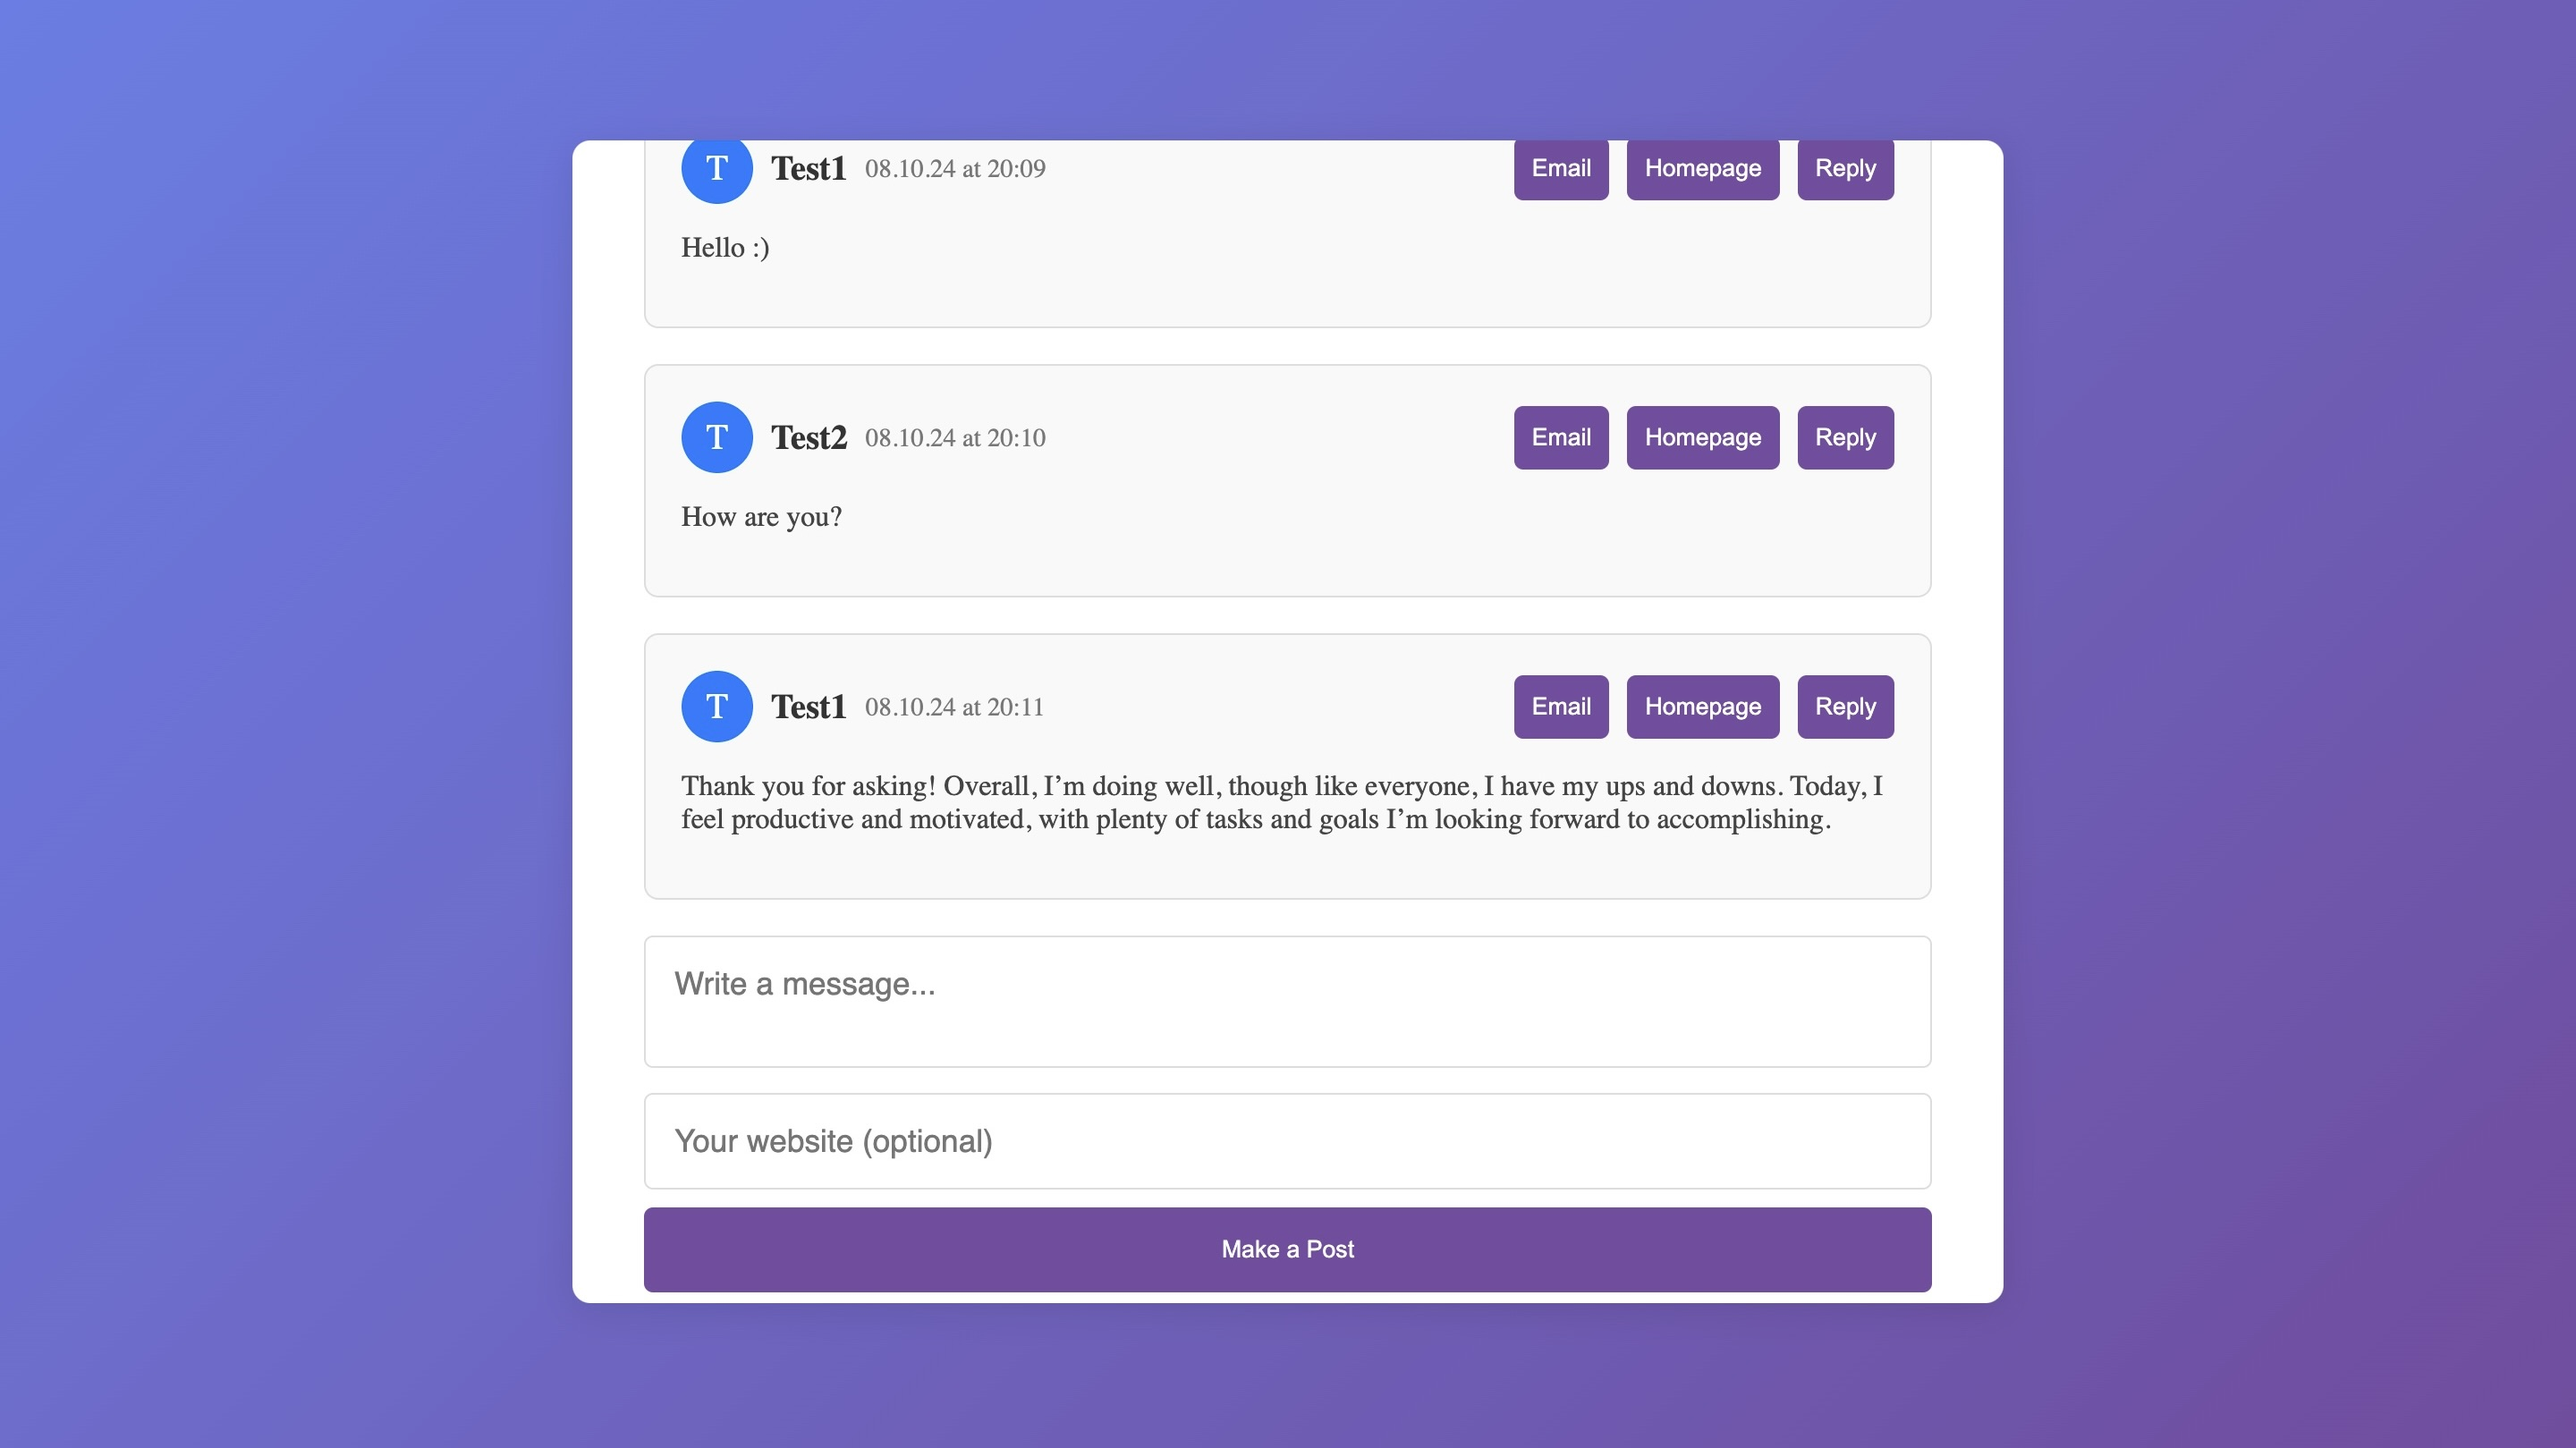
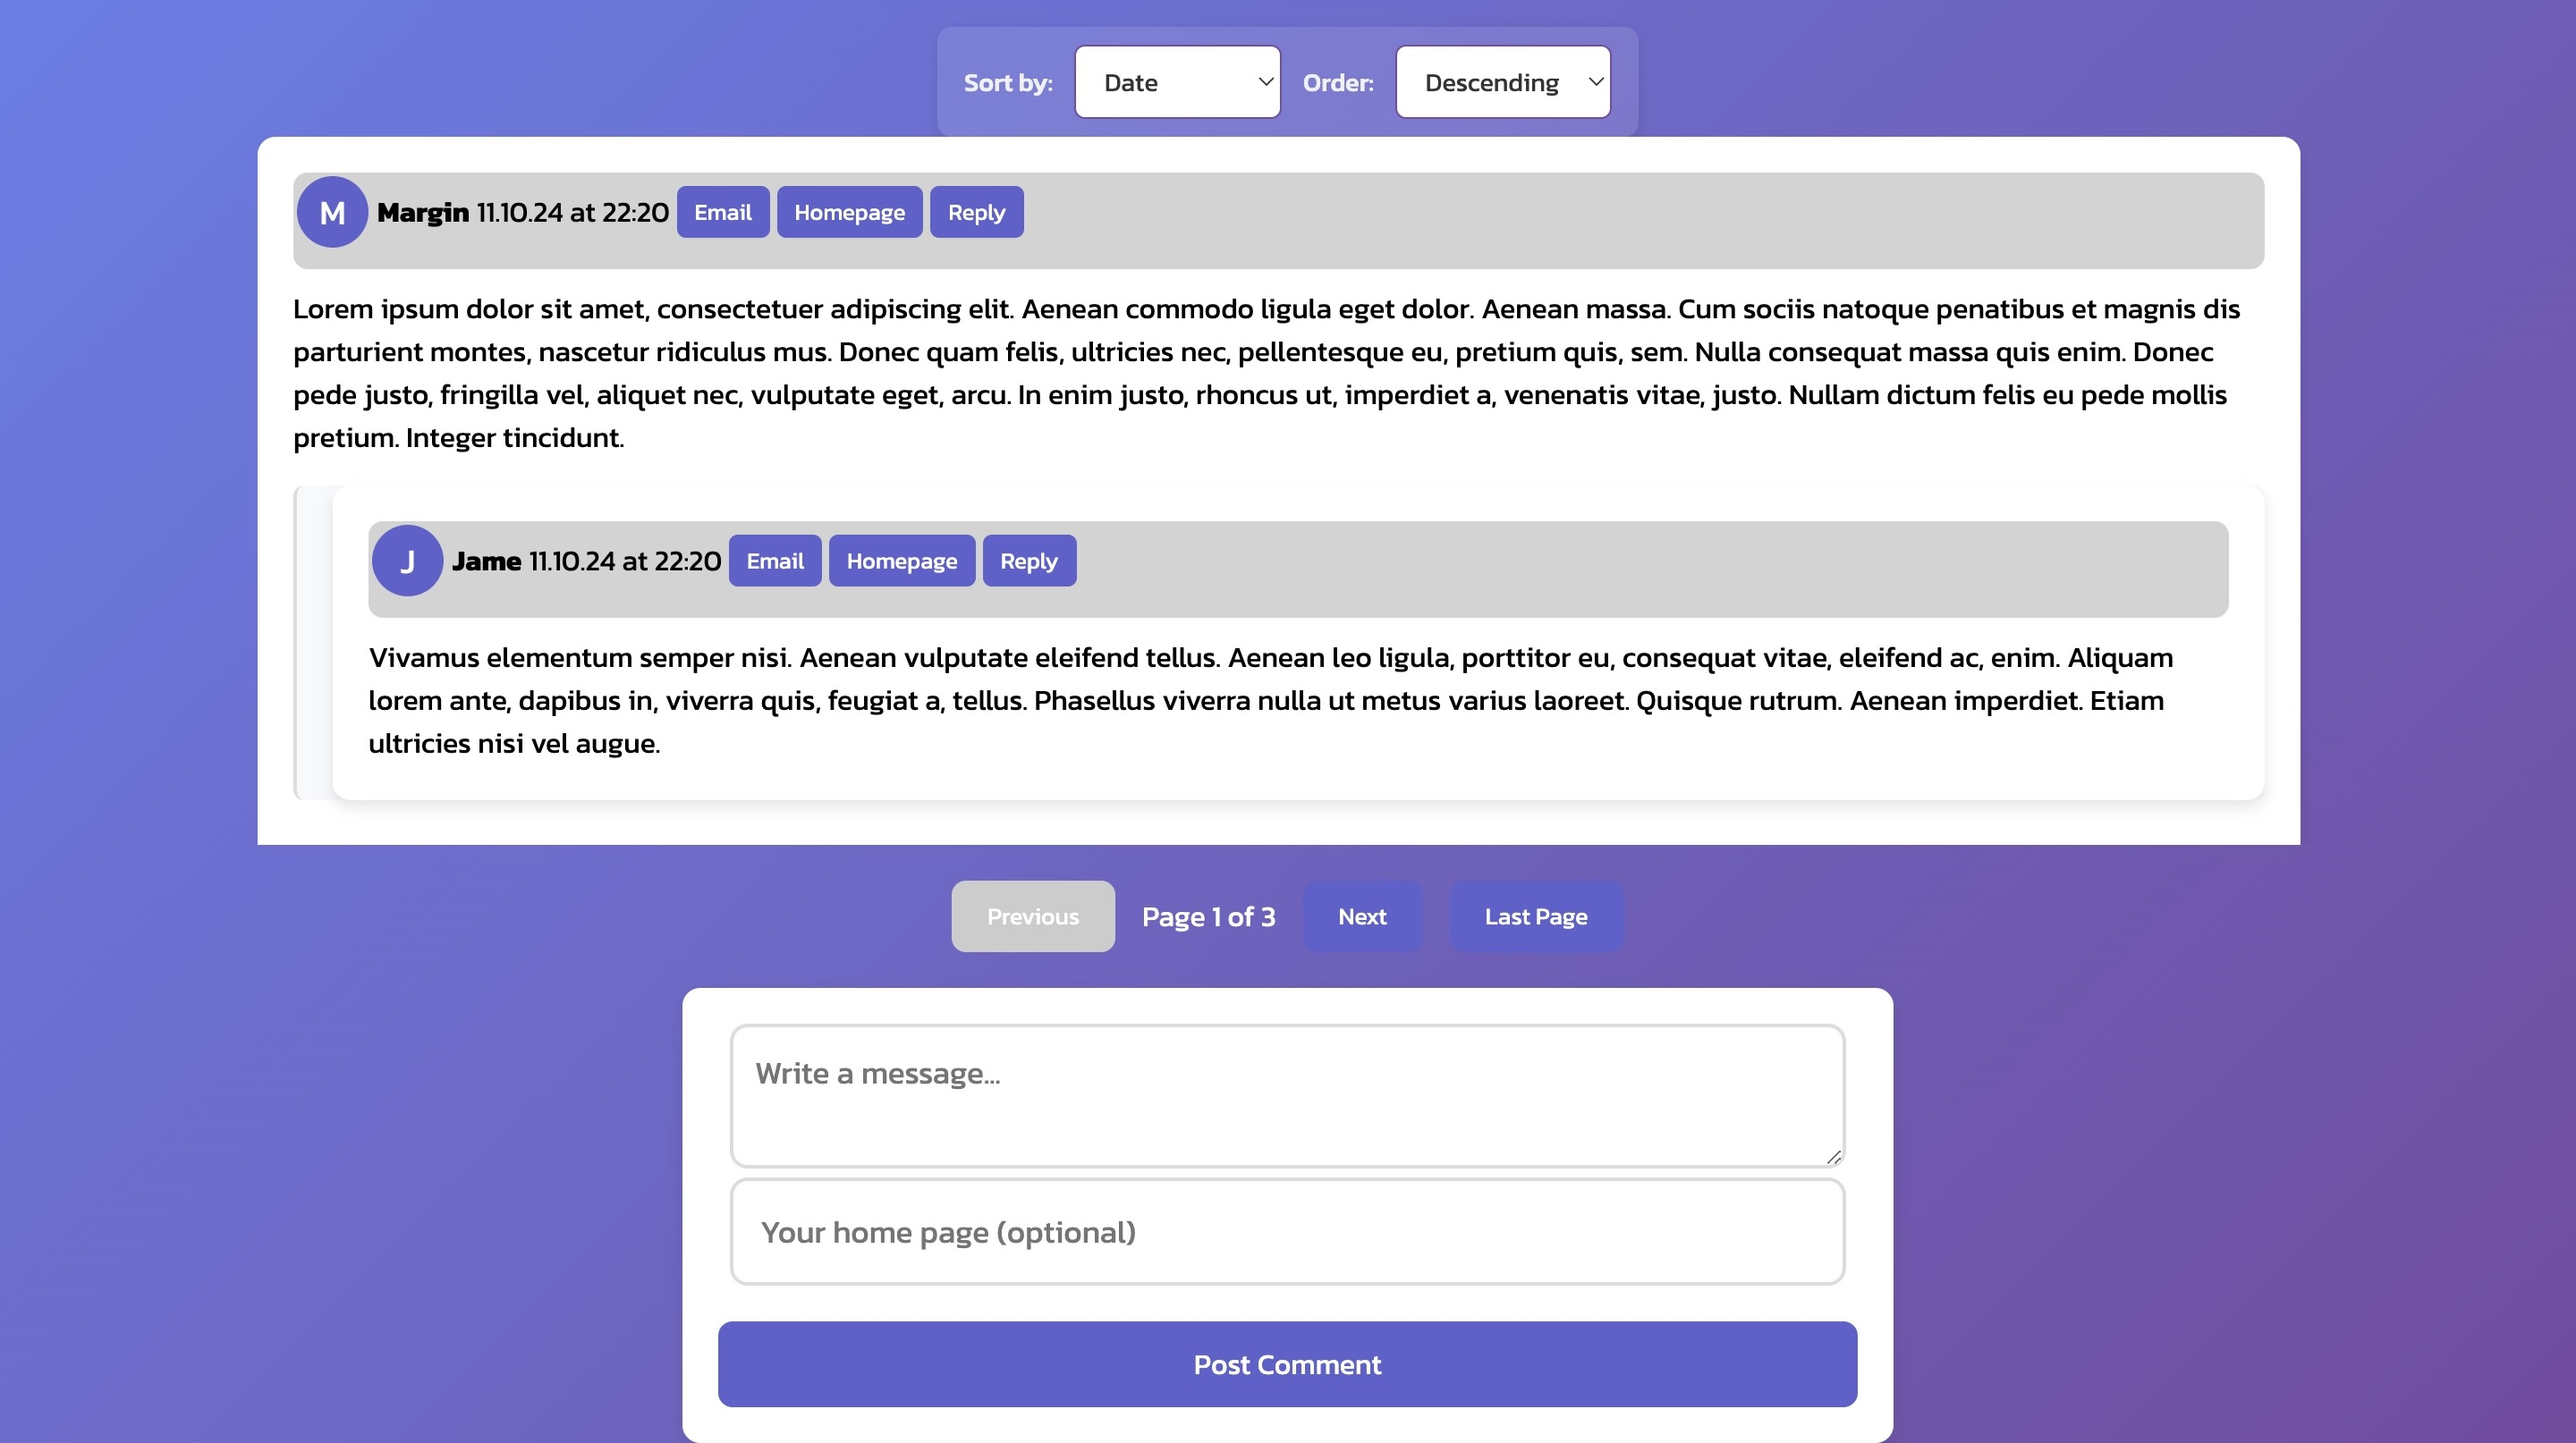
updated LoginPage.vue updated global.css updated README.md

diff --git a/frontend/src/assets/global.css b/frontend/src/assets/global.css
@@ -1,7 +1,10 @@
+@import url('https://fonts.googleapis.com/css2?family=Kanit:wght@100;200;300;400;500;600;700;800;900&display=swap');
+
 * {
   margin: 0;
   padding: 0;
   box-sizing: border-box;
+  font-family: 'Kanit', sans-serif;
 }
 
 html, body {

diff --git a/frontend/src/components/LoginPage.vue b/frontend/src/components/LoginPage.vue
@@ -145,7 +145,6 @@ input:focus {
   outline: none;
 }
 
-/* Кнопка */
 button {
   width: 100%;
   padding: 12px;

diff --git a/README.md b/README.md
@@ -6,12 +6,14 @@ This project demonstrates the integration of a modern SPA frontend with a powerf
 - **Django**: backend framework, offering a robust and scalable architecture for server-side logic.
 - **Django REST Framework**: to create a flexible and powerful API.
 - **Vue.js**: for a reactive and dynamic front-end experience, ensuring a smooth and responsive user interface.
-- **JWT authentication**: for secure and efficient user login functionality.
+- **JWT authentication**: for secure and efficient user login functionality with access and refresh.
 - **WebSockets**: from Django Channels to enable real-time, bidirectional communication, powering features such as live updates without the need for page reloads.
 - **PostgreSQL**: as the primary database for storing application data.
 - **Redis**: for channel layer binding in WebSockets, ensuring efficient real-time message distribution.
 - **Docker**: for containerized , ensuring easy scalability and consistent development environments.
 - **Deploy**: AWS hosts the application for cloud-based deployment, while Nginx serves as the reverse proxy to efficiently handle static files and requests.
+- **Sorting**: for sorting by fields as date, Email, Username.
+- **Ordering**: for ordering by ascending and descending.
 
 1. **Clone the repository**:
     ```bash
@@ -49,3 +51,5 @@ This project demonstrates the integration of a modern SPA frontend with a powerf
 ![Alt text](./frontend/public/register.jpeg)
 ![Alt text](./frontend/public/login.jpeg)
 ![Alt text](./frontend/public/chat.jpeg)
+![Alt text](./frontend/public/chat2.jpeg)
+![Alt text](./frontend/public/email.jpeg)
